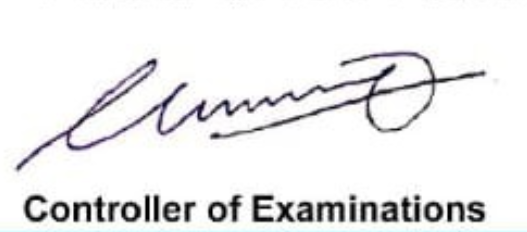
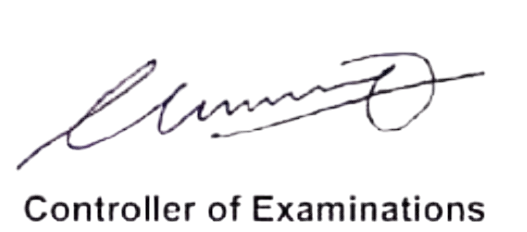
Replace controller signature area with baked-in image

Changed region(s): [[0.0304, 0.2112, 0.9412, 0.7543], [0.0304, 0.8147, 0.9412, 0.9655], [0.0, 0.9957, 1.0, 1.0]]

diff --git a/components/ResultCard.tsx b/components/ResultCard.tsx
@@ -259,13 +259,10 @@ export function ResultCard({ student }: ResultCardProps) {
           </div>
           <div className="text-center sm:text-right mt-6 sm:mt-0">
             <img
-              alt="Controller of Examinations Signature"
-              className="h-24 object-contain mx-auto sm:mr-0 opacity-80"
+              alt="Controller of Examinations"
+              className="h-28 object-contain mx-auto sm:mr-0"
               src="/controller-signature.png"
             />
-            <p className="font-label text-sm text-on-surface-variant font-bold uppercase tracking-wider">
-              Controller of Examinations
-            </p>
           </div>
         </div>
       </div>
